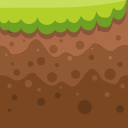
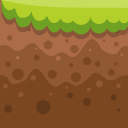
updated readme

Changed region(s): [[0.0, 0.0, 1.0, 0.4688], [0.75, 0.6562, 0.7812, 0.6875], [0.2188, 0.6562, 0.25, 0.6875]]

diff --git a/Level Designer/level_editor.py b/Level Designer/level_editor.py
@@ -31,7 +31,7 @@ pygame.display.set_caption('Level Editor')
 
 # load backgrounds
 sun_img = pygame.image.load('assets/sun.png')
-bg_img = pygame.image.load('assets/BG2.png')
+bg_img = pygame.image.load('assets/BG1.png')
 bg_img = pygame.transform.scale(bg_img, (win_width - margin, HEIGHT))
 
 # load buttons
@@ -64,17 +64,6 @@ for r in range(rows):
 	c = [0] * cols
 	world_data.append(c)
 
-#create boundary
-# boundary_tile = tiles[6]
-# for tile in range(cols):
-# 	world_data[rows-1][tile] = boundary_tile
-# 	world_data[0][tile] = boundary_tile
-
-# 	if tile < rows:
-# 		world_data[tile][0] = boundary_tile
-# 		world_data[tile][cols-1] = boundary_tile
-# world_data[rows-1][cols-1] = boundary_tile
-
 def draw_text(text_, font, color, pos):
 	text = font.render(text_, True, color)
 	win.blit(text, pos)
@@ -90,38 +79,66 @@ def draw_world():
 		for col in range(cols):
 			index = world_data[row][col]
 			if index > 0:
-				if index in range(1,15):
+				if index in range(1,14) or index in (25,26):
 					#dirt block
 					img = pygame.transform.scale(tiles[index-1], (tile_size, tile_size))
 					win.blit(img, (col * tile_size, row * tile_size))
-				if index == 15:
+				if index == 14:
 					#bush blocks
 					img = pygame.transform.scale(tiles[index-1], (tile_size, int(tile_size * 0.50)))
 					win.blit(img, (col * tile_size, row * tile_size + tile_size // 2))
-				if index == 16:
-					#grass blocks
-					img = pygame.transform.scale(tiles[index-1], (tile_size, tile_size))
-					win.blit(img, (col * tile_size, row * tile_size))
-				if index == 17:
+				if index == 15:
 					#lava blocks
 					img = pygame.transform.scale(tiles[index-1], (tile_size, int(tile_size * 0.50)))
 					win.blit(img, (col * tile_size, row * tile_size + tile_size // 2))
+				if index == 16:
+					#Lava Still block
+					img = pygame.transform.scale(tiles[index-1], (tile_size, tile_size))
+					win.blit(img, (col * tile_size, row * tile_size))
+				if index == 17:
+					#Diamond blocks
+					img = pygame.transform.scale(tiles[index-1], (tile_size, tile_size))
+					win.blit(img, (col * tile_size, row * tile_size))
 				if index == 18:
-					#mushroom blocks
-					img = pygame.transform.scale(tiles[index-1], (int(tile_size * 0.80), int(tile_size * 0.80)))
-					win.blit(img, (col * tile_size + tile_size//8, row * tile_size + tile_size // 5))
-				if index == 19:
-					#Coin blocks
-					img = pygame.transform.scale(tiles[index-1], (int(tile_size * 0.7), int(tile_size * 0.7)))
-					win.blit(img, (col * tile_size + tile_size * 0.2, row * tile_size + tile_size * 0.2))
-				if index == 20:
 					#Crate block
 					img = pygame.transform.scale(tiles[index-1], (tile_size, tile_size))
 					win.blit(img, (col * tile_size, row * tile_size))
-				if index == 21:
+				if index == 19:
 					#Water blocks
 					img = pygame.transform.scale(tiles[index-1], (tile_size, int(tile_size * 0.50)))
 					win.blit(img, (col * tile_size, row * tile_size + tile_size // 2))
+				if index == 20:
+					#Water blocks
+					img = pygame.transform.scale(tiles[index-1], (tile_size, tile_size))
+					win.blit(img, (col * tile_size, row * tile_size))
+				if index == 21:
+					#tree blocks
+					img = pygame.transform.scale(tiles[index-1], (3*tile_size, 3 * tile_size))
+					win.blit(img, ((col-1) * tile_size + 10, (row-2) * tile_size + 5))
+				if index == 22:
+					#mushroom blocks
+					img = pygame.transform.scale(tiles[index-1], (int(tile_size * 0.80), int(tile_size * 0.80)))
+					win.blit(img, (col * tile_size + tile_size//8, row * tile_size + tile_size // 5))
+				if index == 23:
+					#Bee blocks
+					img = pygame.transform.scale(tiles[index-1], (50, 50))
+					win.blit(img, (col * tile_size, row * tile_size))
+				if index == 24:
+					#Bee blocks
+					img = tiles[index-1]
+					win.blit(img, (col * tile_size - tile_size//4, row * tile_size - tile_size//4))
+				if index == 27:
+					#flower blocks
+					img = pygame.transform.scale(tiles[index-1], (2*tile_size, tile_size))
+					win.blit(img, ((col) * tile_size, row * tile_size))
+				if index == 28:
+					#treelimb blocks
+					img = pygame.transform.scale(tiles[index-1], (5*tile_size + 20, tile_size))
+					win.blit(img, ((col-2) * tile_size + 10, row * tile_size + tile_size // 4))
+				if index == 29:
+					#slime blocks
+					img = pygame.transform.scale(tiles[index-1], (int(1.2*tile_size), tile_size))
+					win.blit(img, (col * tile_size - 10, row * tile_size))
 
 
 class Button:

diff --git a/Jungle Dash/game.py b/Jungle Dash/game.py
@@ -25,7 +25,7 @@ jungle_dash = pygame.image.load('assets/jungle dash.png')
 
 
 # loading level 1
-level = 12
+level = 1
 max_level = len(os.listdir('levels/'))
 data = load_level(level)
 

diff --git a/Jungle Dash/README.md b/Jungle Dash/README.md
@@ -1,0 +1,36 @@
+# Jungle Dash
+
+[![forthebadge](https://forthebadge.com/images/badges/built-with-love.svg)](https://forthebadge.com)
+[![forthebadge](https://forthebadge.com/images/badges/built-with-swag.svg)](https://forthebadge.com)
+[![forthebadge](https://forthebadge.com/images/badges/made-with-python.svg)](https://forthebadge.com)
+
+Jungle Dash is a simple 2D platformer game made with python and pygame.
+
+![Alt text](app.png?raw=true "Jungle Dash")
+
+## How to Download
+
+Download this project from here [Download Jungle Dash](https://downgit.github.io/#/home?url=https://github.com/pyGuru123/Python-Games/tree/master/Jungle%20Dash)
+
+## Requirements
+
+Use the package manager [pip](https://pip.pypa.io/en/stable/) to install following packages :-
+* Pygame
+
+```bash
+pip install pygame
+```
+
+## Usage
+
+Double click the game.py to open the game, Click start to start playing the game. The objective of the game is to clear all levels & collecting diamonds without getting hit by bees, slimes or without touching water & lava
+
+Controls:
+* Use Space or Up arrow key to jump.
+* Use Left & Right arrow key to move in left & right direction respectively
+
+## Contributing
+
+Pull requests are welcome. For major changes, please open an issue first to discuss what you would like to change.
+
+Please make sure to update tests as appropriate.

diff --git a/README.md b/README.md
@@ -17,6 +17,10 @@ and pygame library.
 	> Dino Run is an implementaion of chromes dino run game in pygame.\
 	> Link to project : [Dino Run](https://github.com/pyGuru123/Python-Games/tree/master/Dino)
 
+* ## Jungle Dash
+	> Jungle Dash is a 2D platformer game made with pygame.\
+	> Link to project : [Jungle Dash](https://github.com/pyGuru123/Python-Games/tree/master/Jungle%20Dash)
+
 * ## MineSweeper
 	> MineSweeper game written using tkinter library.\
 	> Link to project : [MineSweeper](https://github.com/pyGuru123/Python-Games/tree/master/MineSweeper)
@@ -42,6 +46,10 @@ and pygame library.
 * ## SpriteSheet Cutter
 	> SpriteSheet Cutter is a tool to cut spritsheets.\
 	> Link to project : [SpriteSheet Cutter](https://github.com/pyGuru123/Python-Games/tree/master/SpriteSheet%20Cutter)
+
+* ## Level Designer
+	> Level Designer is a tool to design levels for 2D non scrollable platformer games.\
+	> Link to project : [Level Designer](https://github.com/pyGuru123/Python-Games/tree/master/Level%20Designer)
 
 
 <br/>
